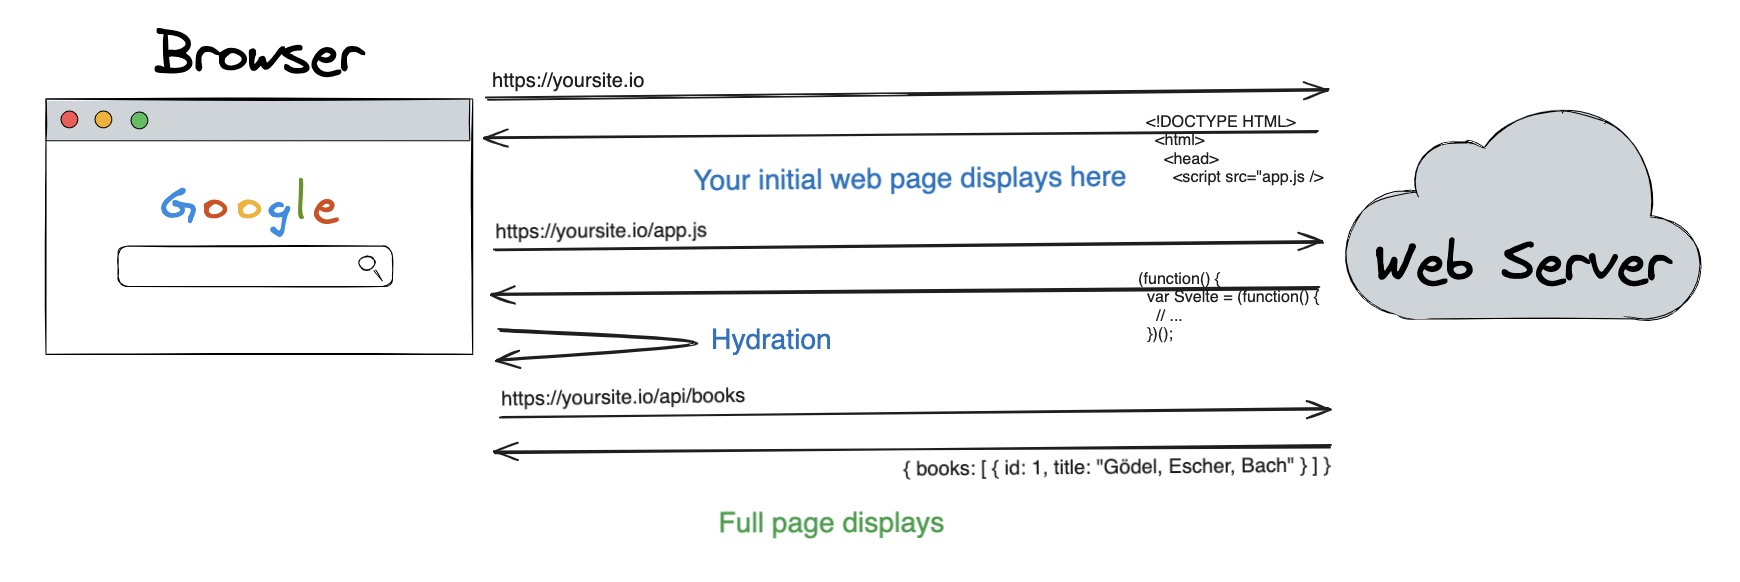
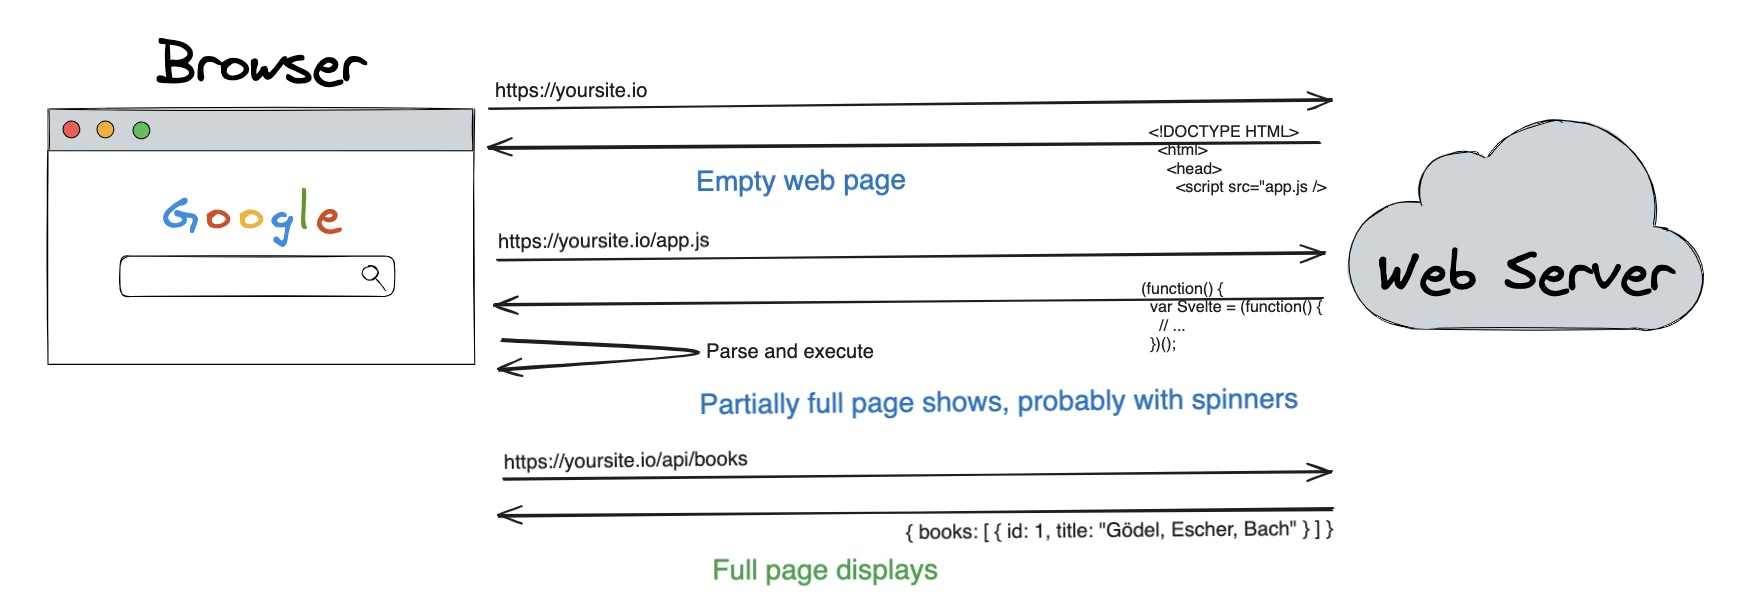
Work

diff --git a/blog/prefetching/index.md b/blog/prefetching/index.md
@@ -9,3 +9,9 @@ Application metaframeworks like Next and SvelteKit have become incredibly popula
 Why is that so important. Let's take a look at how the world looks with client-rendered web applications, commonly referred to as "single page applications" or spa's. Let's start with a simplified diagram of what a typical request for a page looks like in a SPA.
 
 ![SPA request](/prefetch/img1-spa-request.jpg)
+
+The browser makes a request to some webpage, yoursite.io in this case. With a client-rendered site, it usually sends down a single, mostly empty html page, which has whatever script tags and style tags needed to run the app. This shell of a page might display your company logo, your static header, your copyright message in the footer, etc. But mostly it exists to run JavaScript and offer the real app to your users.
+
+Note: this is why these apps are called "single page" applications. There's a single web page for the whole app, which runs code on the client to detect url changes, and request and render whatever new UI is needed.
+
+So back to our diagram. The inital web page was sent back from the web server. Now what? Well the browser will parse the document, and in doing so, encounter script tags. These script tags contain our application code, our JavaScript framework, etc. The browser will send requests back to the web server to load these scripts. Once the browser gets the scripts back, it'll parse, and execute them, and in so doing, begin executing your application code.
